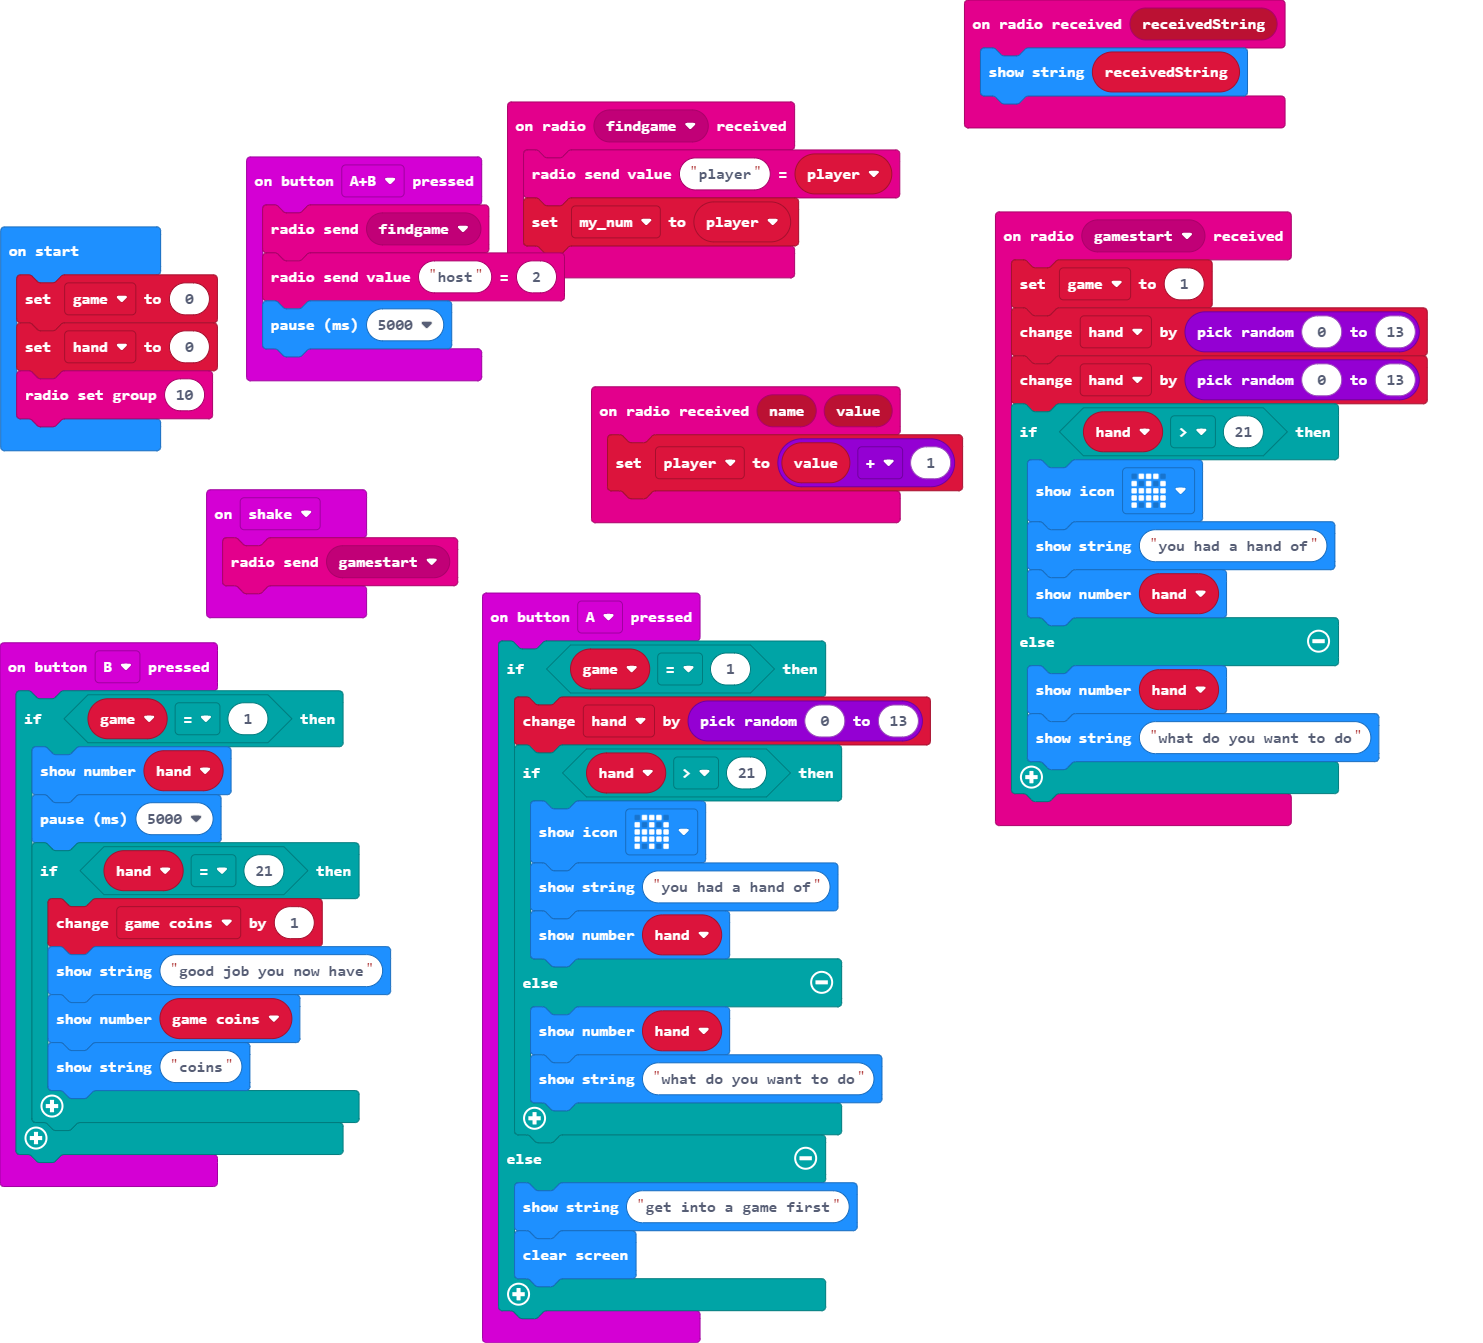
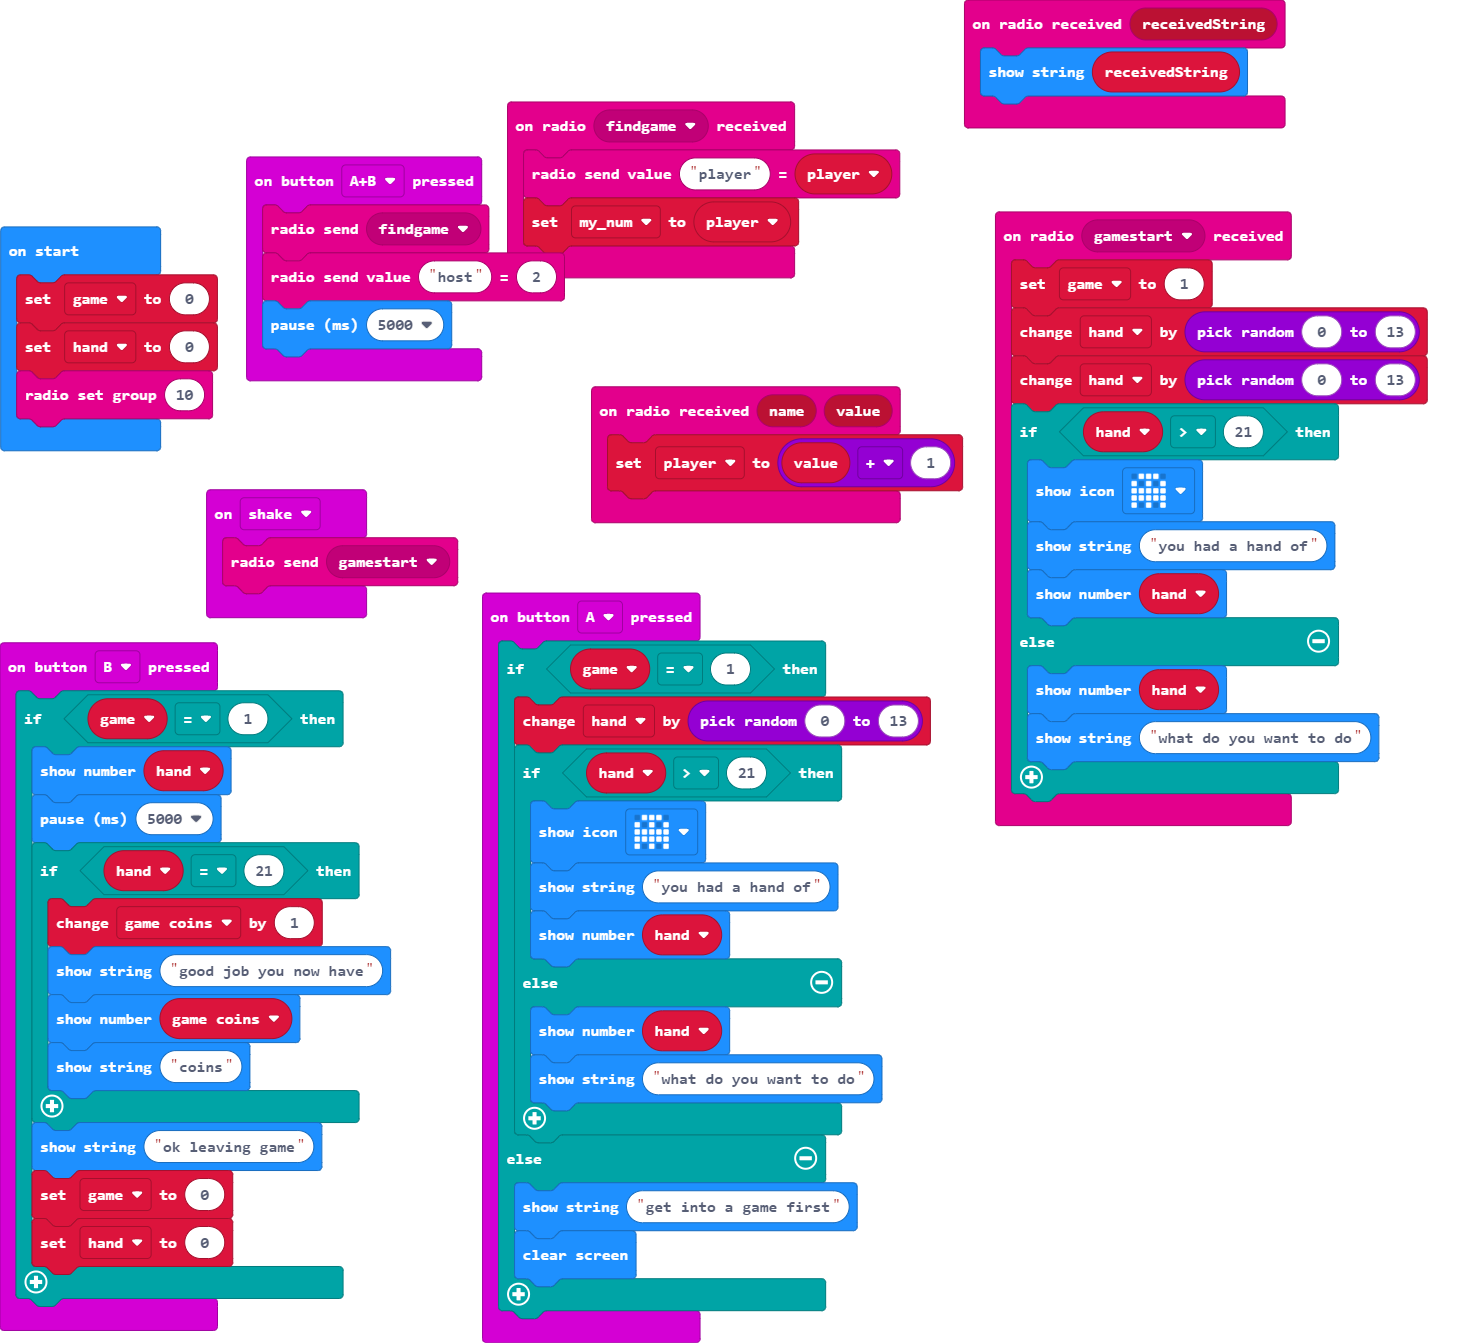
almost done

Changed region(s): [[0.0, 0.8243, 0.2481, 1.0]]

diff --git a/main.ts b/main.ts
@@ -54,6 +54,9 @@ input.onButtonPressed(Button.B, function () {
             basic.showNumber(game_coins)
             basic.showString("coins")
         }
+        basic.showString("ok leaving game")
+        game2 = 0
+        hand = 0
     }
 })
 input.onGesture(Gesture.Shake, function () {
